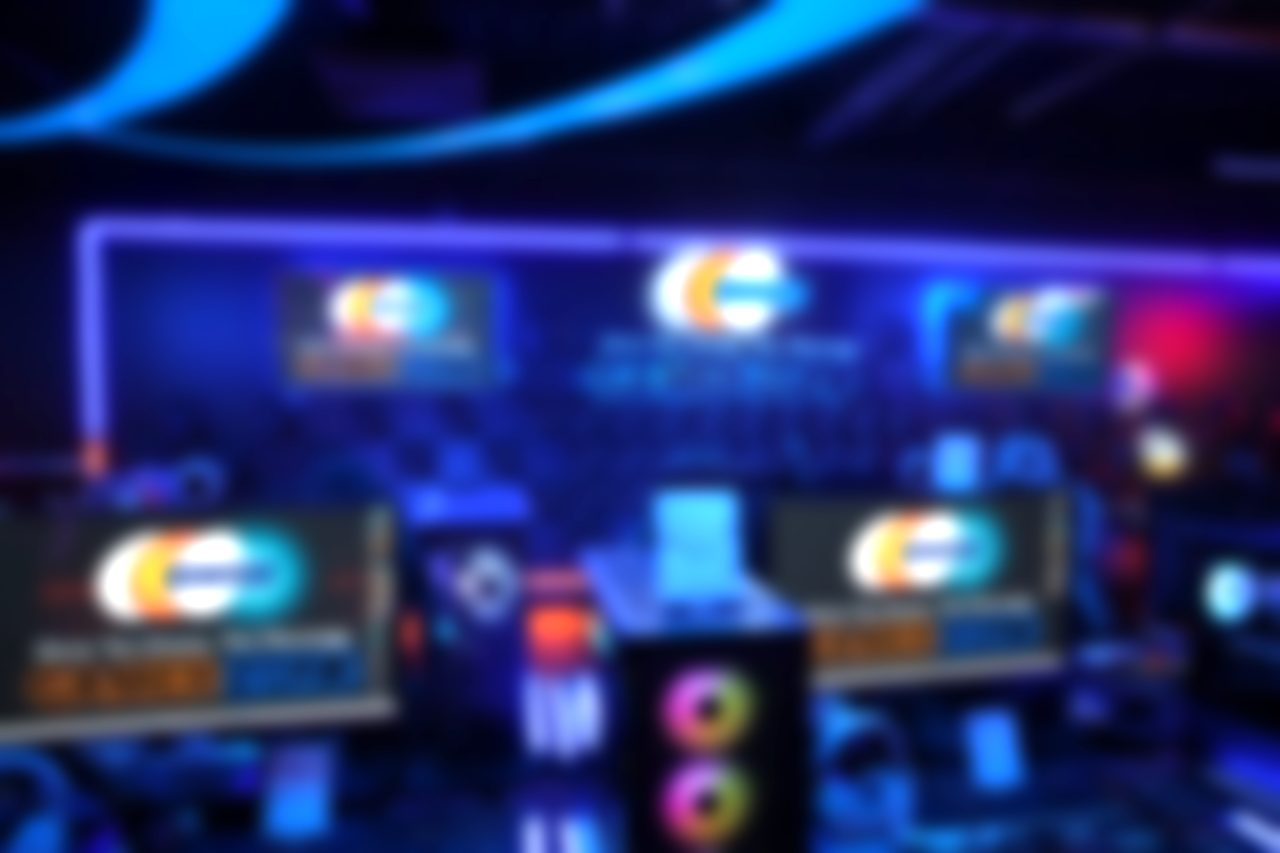
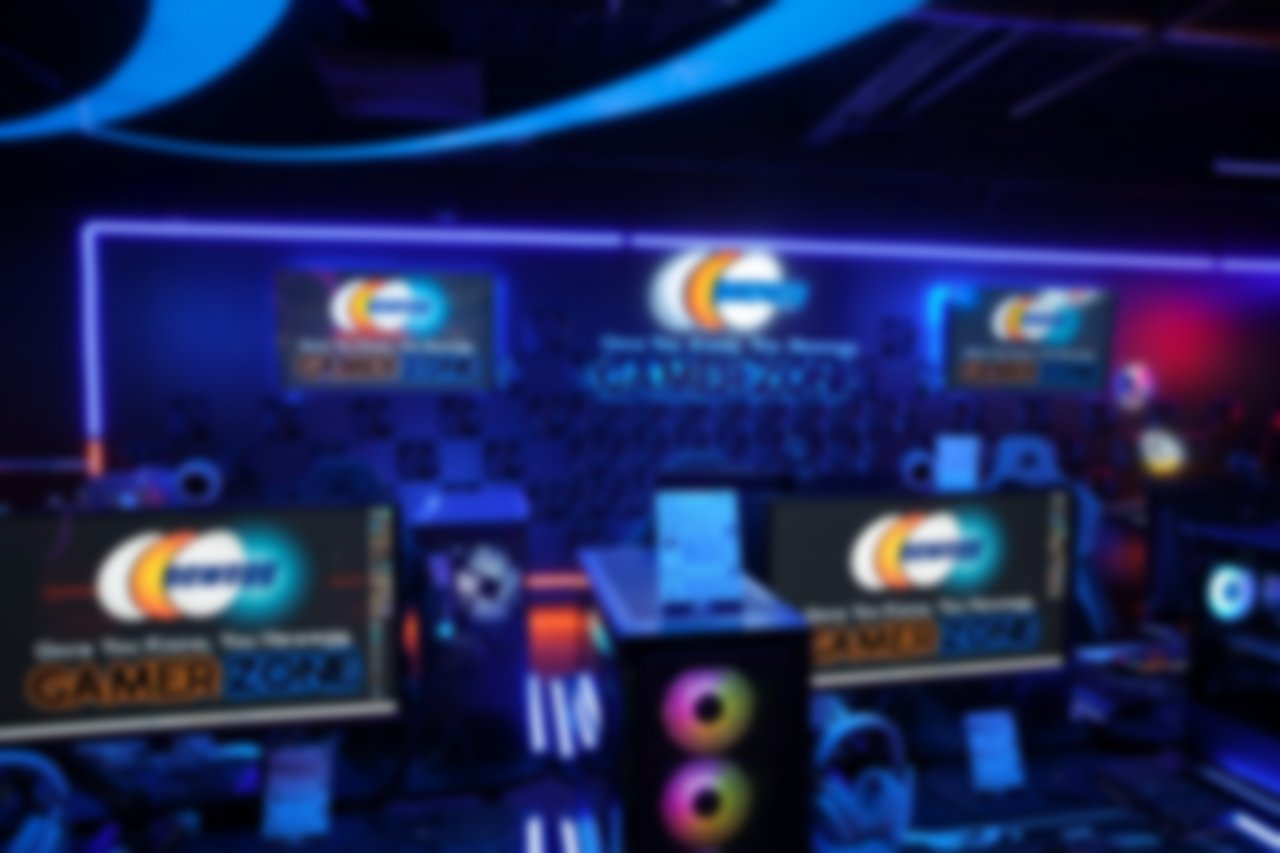
Fix Weekly Lineup week-to-week size inconsistency; lighten board bg blur
The .eu-board-inner transform:scale(var(--eu-scale,1)) rule was applying
unscoped, so board-mode export captures inherited whatever stale
--eu-scale value was left on the element from fitBoard()'s live-page
shrink-to-fit calculation -- and since capture-social-images.mjs reuses
one Playwright page across multiple weeks, that stale value came from
the PREVIOUS week's leftover viewport state, not the current week's real
content. Scoped the scale transform to html:not(.board-mode) only, with
an explicit html.board-mode .eu-board-inner{transform:none}, so every
board-mode export now renders at a consistent true 1:1 scale regardless
of capture order. Verified across all weeks with zero new cropping.

Also regenerated all 10 board-background -blurred.jpg assets with a
lighter Gaussian blur (radius 5, was much heavier/undocumented before)
per Eric's request to show more background detail -- formalized into
scripts/regenerate-board-backgrounds.py so the process and radius choice
are documented and reusable. Re-verified via tools/audit/run.sh: 0
contrast failures across all 5 pages.

Claude-Session: https://claude.ai/code/session_01HZKHw9sUL6y9JBnUacDssR

diff --git a/assets/css/style.css b/assets/css/style.css
@@ -1811,7 +1811,34 @@ html:not(.board-mode) #week .eu-board{aspect-ratio:1/1;min-height:0;justify-cont
    justify-content:center (untouched, below) still centers deliberately for
    the actual screenshot-export layout -- this only affects the live #week
    top-aligned case. */
-.eu-board-inner{width:100%;display:flex;flex-direction:column;transform:scale(var(--eu-scale,1));transform-origin:top center}
+.eu-board-inner{width:100%;display:flex;flex-direction:column;transform-origin:top center}
+/* 2026-09-08: found and fixed a real bug where week-to-week board-mode
+   exports rendered at wildly inconsistent sizes (e.g. Party Games Week's
+   masthead/icon much smaller than Racing Games Week's) despite both
+   weeks' real content fitting comfortably -- root cause was NOT a content
+   difference. fitBoard() (event-update.js) computes --eu-scale for the
+   LIVE page's shrink-to-fit behavior only, and explicitly early-returns
+   under board-mode without recomputing -- but this rule was applying
+   transform:scale(var(--eu-scale,1)) UNSCOPED, so board-mode exports
+   inherited whatever stale --eu-scale value happened to be sitting on
+   the element already. capture-social-images.mjs reuses one Playwright
+   page/context across multiple weeks' captures and leaves the viewport
+   at the previous capture's square (700px) width after each week; the
+   next week's fresh page load runs fitBoard()'s initial refit() at that
+   stale narrow width, in live (non-board-mode) mode, BEFORE the
+   board-mode class gets added for the actual export -- producing a scale
+   value driven by irrelevant leftover viewport state (confirmed via
+   instrumented capture: Party Games Week measured --eu-scale:"0.55" this
+   way, vs Racing Games Week's "0.999..."). Fixed by scoping the scale
+   transform to the live page only and giving board-mode an explicit
+   transform:none, so every board-mode export now renders at its own true
+   1:1 scale regardless of capture order or prior viewport state. Verified:
+   consistent masthead/logo/icon sizing across all weeks in fresh exports,
+   zero new cropping (checked against the busiest week, Fighting Games
+   Week), and the live page's own shrink-to-fit behavior (the whole reason
+   --eu-scale exists) is fully unaffected. */
+html:not(.board-mode) .eu-board-inner{transform:scale(var(--eu-scale,1))}
+html.board-mode .eu-board-inner{transform:none}
 /* Live page only: .eu-board-inner otherwise shrink-wraps to its own
    content height, which left the .eu-bottom-group centering rule above
    with nothing to center within -- the leftover square space sat OUTSIDE
@@ -1825,7 +1852,7 @@ html:not(.board-mode) #week .eu-board{aspect-ratio:1/1;min-height:0;justify-cont
    + a fixed-height square, a different, already-tuned mechanism this
    isn't meant to touch. */
 html:not(.board-mode) .eu-board-inner{flex:1 1 auto;min-height:0}
-@media (prefers-reduced-motion: no-preference){.eu-board-inner{transition:transform .25s ease}}
+@media (prefers-reduced-motion: no-preference){html:not(.board-mode) .eu-board-inner{transition:transform .25s ease}}
 /* Pre-blurred asset, not a live filter — see the .cal-board::before comment
    above for why. */
 .eu-board::before{content:"";position:absolute;inset:-4%;z-index:-2;background-image:var(--eu-bg,url('../calendar/BGAssets/event-update-bg-week1-blurred.jpg'));background-size:cover;background-position:center}

diff --git a/scripts/regenerate-board-backgrounds.py b/scripts/regenerate-board-backgrounds.py
@@ -1,0 +1,79 @@
+#!/usr/bin/env python3
+"""
+Regenerates the "-blurred.jpg" board-background assets (assets/calendar/
+BGAssets/*-blurred.jpg) from their sharp, full-resolution source photos.
+
+Why this exists: these blurred assets are what .eu-board::before (style.css)
+uses as the Weekly Lineup board's background image (behind a near-opaque
+dark scrim, .eu-board::after -- see that rule's own comment). They used to
+be generated once, ad hoc, with no script or documented blur radius
+checked into the repo -- which meant "make the blur lighter/heavier" had
+no reliable starting point. 2026-09-08, per Eric ("reduce the amount of
+blur on the background, since we want to see a little bit more detail"):
+regenerated every pair at BLUR_RADIUS below (was effectively much heavier
+before -- monitors/text/wall texture were unrecognizable blobs). Re-verified
+via the pixel-based WCAG contrast audit (tools/audit/run.sh) after this
+change: 0 failures across all 5 pages -- the dark scrim already does most
+of the contrast work, so the raw background's blur level has little effect
+on text legibility. If Eric asks to go lighter/heavier again, just change
+BLUR_RADIUS and rerun this script, then re-run the contrast audit.
+
+Usage: python3 scripts/regenerate-board-backgrounds.py
+Requires: Pillow (pip install Pillow --break-system-packages)
+"""
+import os
+from PIL import Image, ImageFilter
+
+ROOT = os.path.dirname(os.path.dirname(os.path.abspath(__file__)))
+BGDIR = os.path.join(ROOT, 'assets', 'calendar', 'BGAssets')
+
+# Gaussian blur radius (PIL, in px, applied AFTER resizing to the target
+# width below) baked into each "-blurred.jpg" asset. Lower = more detail
+# visible; raise it back toward ~15-20 to return to the original, heavier
+# look. 5 was picked 2026-09-08 as a middle ground: real shapes (neon bars,
+# wall texture, monitor glow) read clearly without the image competing
+# with the board's own text once the dark scrim is layered on top.
+BLUR_RADIUS = 5
+
+# (sharp source, blurred asset to regenerate). Every "-blurred.jpg" file
+# actually referenced by style.css (.eu-board::before, .cal-board::before)
+# should have an entry here -- add a new pair whenever a new themed
+# background is added to data/events.json's weeklyThemes[].bg or similar.
+PAIRS = [
+    ('dailyplay-bg.jpg', 'dailyplay-bg-blurred.jpg'),
+    ('event-update-bg-week1.jpg', 'event-update-bg-week1-blurred.jpg'),
+   ('event-update-bg-week2.jpg', 'event-update-bg-week2-blurred.jpg'),
+    ('event-update-bg-week3.jpg', 'event-update-bg-week3-blurred.jpg'),
+    ('event-update-bg-week4.jpg', 'event-update-bg-week4-blurred.jpg'),
+    ('freeplay-bg2.jpg', 'freeplay-bg2-blurred.jpg'),
+    ('freeplay-bg3.jpg', 'freeplay-bg3-blurred.jpg'),
+    ('majorevent2-bg.jpg', 'majorevent2-bg-blurred.jpg'),
+    ('tournament-major-bg.jpg', 'tournament-major-bg-blurred.jpg'),
+    ('training-bg.jpg', 'training-bg-blurred.jpg'),
+ ]
+
+DEFAULT_TARGET_WIDTH = 1280  # only used if the existing blurred asset is missing
+
+
+def main():
+    for src_name, dst_name in PAIRS:
+        src_path = os.path.join(BGDIR, src_name)
+        dst_path = os.path.join(BGDIR, dst_name)
+        if not os.path.exists(src_path):
+            print(f'SKIP (no source): {src_name}')
+            continue
+        im = Image.open(src_path).convert('RGB')
+        w, h = im.size
+        try:
+            target_w = Image.open(dst_path).size[0]
+        except Exception:
+            target_w = DEFAULT_TARGET_WIDTH
+        target_h = round(h * target_w / w)
+        resized = im.resize((target_w, target_h), Image.LANCZOS)
+        blurred = resized.filter(ImageFilter.GaussianBlur(radius=BLUR_RADIUS))
+        blurred.save(dst_path, quality=85)
+        print(f'OK: {dst_name} ({target_w}x{target_h}, radius={BLUR_RADIUS})')
+
+
+if __name__ == '__main__':
+    main()
